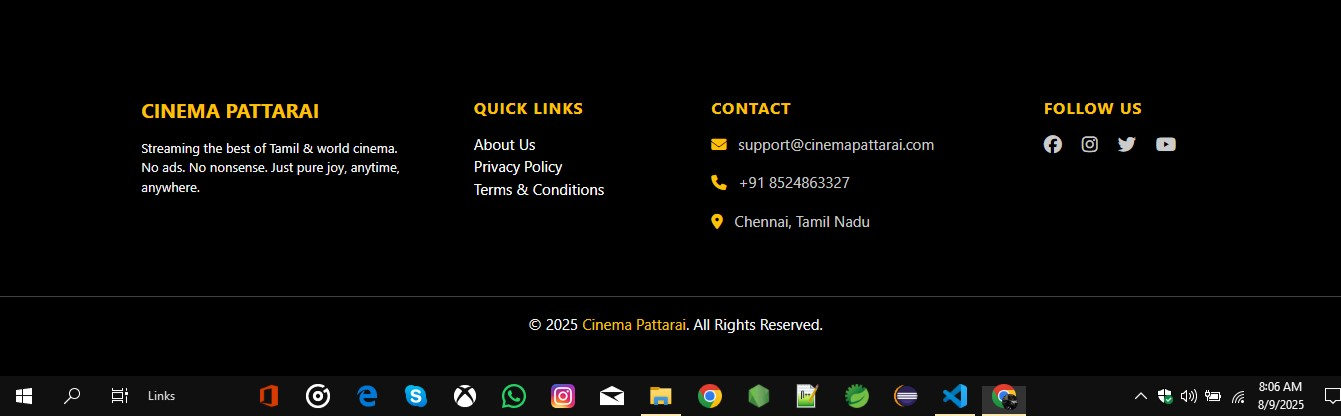
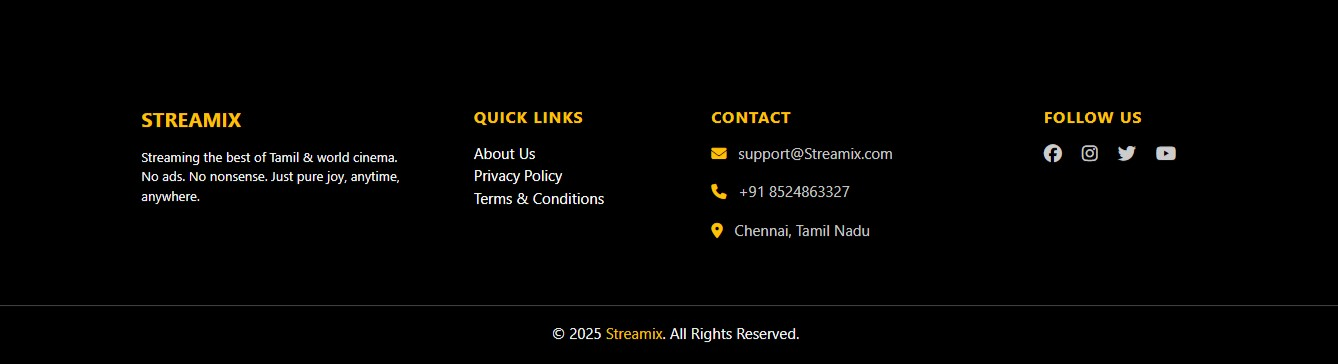
Your commit message here

diff --git a/index.html b/index.html
@@ -353,7 +353,7 @@
 
       <!-- About Us -->
       <div class="col-md-3 col-lg-3 col-xl-3 mx-auto mb-4">
-        <h5 class="text-uppercase fw-bold mb-3 text-warning">Cinema Pattarai</h5>
+        <h5 class="text-uppercase fw-bold mb-3 text-warning">Streamix</h5>
         <p class="small text-light">
           Streaming the best of Tamil & world cinema. No ads. No nonsense. Just pure joy, anytime, anywhere.
         </p>
@@ -372,7 +372,7 @@
       <!-- Contact -->
       <div class="col-md-4 col-lg-3 col-xl-3 mx-auto mb-4">
         <h6 class="text-uppercase fw-bold mb-3 text-warning">Contact</h6>
-        <p><i class="fas fa-envelope me-2 text-warning"></i> support@cinemapattarai.com</p>
+        <p><i class="fas fa-envelope me-2 text-warning"></i> support@Streamix.com</p>
         <p><i class="fas fa-phone me-2 text-warning"></i> +91 8524863327</p>
         <p><i class="fas fa-map-marker-alt me-2 text-warning"></i> Chennai, Tamil Nadu</p>
       </div>
@@ -390,7 +390,7 @@
 
   <!-- Copyright -->
   <div class="text-center py-3 border-top border-secondary mt-4 text-light">
-    &copy; 2025 <span class="text-warning">Cinema Pattarai</span>. All Rights Reserved.
+    &copy; 2025 <span class="text-warning">Streamix</span>. All Rights Reserved.
   </div>
 </footer>
 
